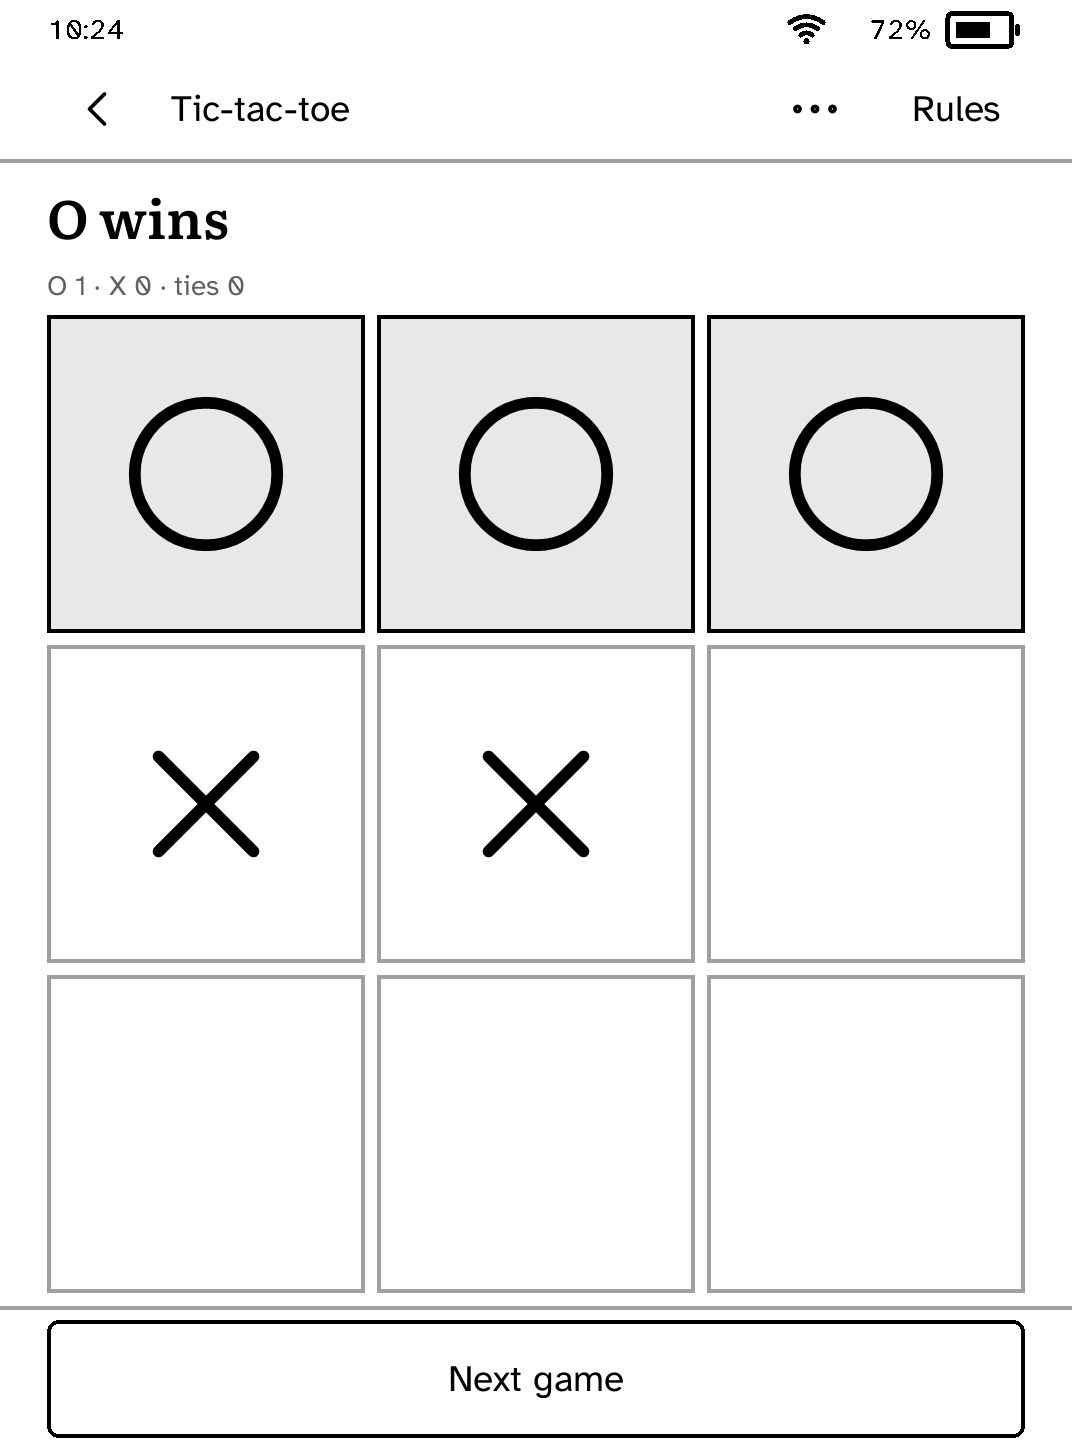
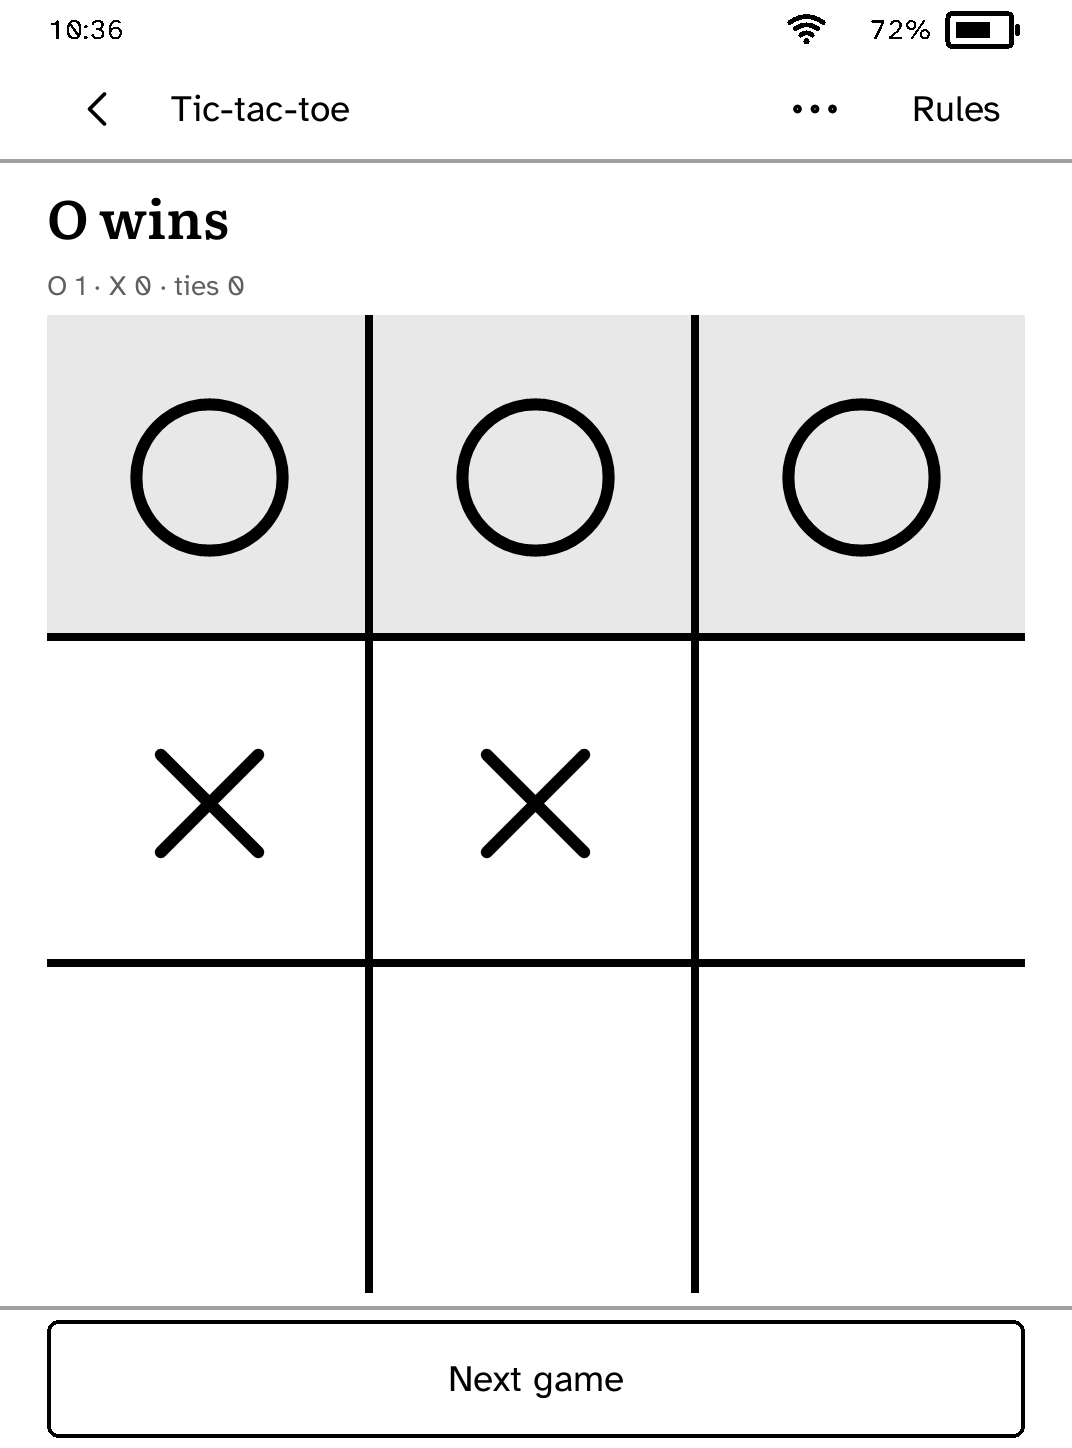
Draw a three by three board as the hash it is played on
A square grid of nine cells marked only with noughts and crosses was nine separate outlined boxes with gaps between them. Its squares now meet, and each draws the rule to its right and below where another square follows, so the board is the four heavy rules of a # with nothing round it. A winning line keeps its selection field.

The tic-tac-toe example's screenshots and site copy are retaken.

diff --git a/docs/index.html b/docs/index.html
@@ -733,7 +733,7 @@ footer nav { display: flex; gap: 22px; flex-wrap: wrap; }
         <p>Sync folders between your computer and your Kobo with Syncthing. Needs your computer.</p>
       </div>
       <div class="app">
-        <a class="shot" href="apps/tictactoe/"><picture><source type="image/webp" sizes="(max-width: 465px) calc(100vw - 36px), (max-width: 931px) 314px, 240px" srcset="media/site/app-thumbs/tictactoe-480w-0eb9d0b9161d.webp 480w, media/site/app-thumbs/tictactoe-800w-0eb9d0b9161d.webp 800w"><img src="media/site/apps/tictactoe.png" width="1072" height="1448" loading="lazy" alt="A completed game of tic-tac-toe on a Kobo"></picture></a>
+        <a class="shot" href="apps/tictactoe/"><picture><source type="image/webp" sizes="(max-width: 465px) calc(100vw - 36px), (max-width: 931px) 314px, 240px" srcset="media/site/app-thumbs/tictactoe-480w-9848e0046831.webp 480w, media/site/app-thumbs/tictactoe-800w-9848e0046831.webp 800w"><img src="media/site/apps/tictactoe.png" width="1072" height="1448" loading="lazy" alt="A completed game of tic-tac-toe on a Kobo"></picture></a>
         <h3><a href="apps/tictactoe/">Tic-tac-toe</a></h3>
         <p>Play tic-tac-toe together on one Kobo.</p>
       </div>

diff --git a/crates/kobo-ui/src/lib.rs b/crates/kobo-ui/src/lib.rs
@@ -1403,6 +1403,13 @@ pub enum CellStyle {
     Pit,
     /// A store at one end of a sowing game's board, as tall as both rows.
     Store,
+    /// A square of a noughts and crosses board: it draws the rule on its
+    /// right and below it where another square follows, so the board is the
+    /// four rules of a # and nothing round it.
+    Hash {
+        right: bool,
+        bottom: bool,
+    },
     /// A square of a joined board ruled in grey, a reversi board's: it
     /// draws its top and left rules and the board draws the frame.
     Ruled,
@@ -8048,6 +8055,16 @@ fn layout_node(
                 && cells
                     .iter()
                     .any(|cell| matches!(cell.glyph, Some(Glyph::BlackDisc | Glyph::WhiteDisc)));
+            // Noughts and crosses is drawn as the # it is played on: three by
+            // three squares that meet, with only the four rules between them.
+            let hash_board = *square
+                && requested == 3
+                && cells.len() == 9
+                && cells.iter().all(|cell| {
+                    cell.corner.is_none()
+                        && cell.tone == CellTone::Plain
+                        && matches!(cell.glyph, None | Some(Glyph::Circle | Glyph::Close))
+                });
             let chess_board = *square
                 && requested == 8
                 && cells.len() == 64
@@ -8085,6 +8102,7 @@ fn layout_node(
             let (mut x, mut width, gutter) = if backgammon_board {
                 (0, metrics.width, 0)
             } else if chess_board
+                || hash_board
                 || draughts_squares
                 || reversi_board
                 || (*square && cells.iter().any(|cell| cell.corner.is_some()))
@@ -8214,6 +8232,11 @@ fn layout_node(
                     CellStyle::Plain
                 } else if reversi_board {
                     CellStyle::Ruled
+                } else if hash_board {
+                    CellStyle::Hash {
+                        right: column < 2,
+                        bottom: row < 2,
+                    }
                 } else if (draughts_board || chess_board) && (row + column) % 2 == 1 {
                     CellStyle::BoardDark
                 } else if draughts_board || chess_board {
@@ -15856,6 +15879,36 @@ fn paint_layout(
                 tone::MUTED,
                 clip,
             ),
+            LayoutKind::Cell(_, CellStyle::Hash { right, bottom }, selected) => {
+                if selected {
+                    fill_clipped(surface, node.rect, palette.selection_field(), clip);
+                }
+                let rule = metrics.rule_thickness() * 2;
+                if right {
+                    fill_clipped(
+                        surface,
+                        Rect {
+                            x: node.rect.x + node.rect.width - rule,
+                            width: rule,
+                            ..node.rect
+                        },
+                        tone::INK,
+                        clip,
+                    );
+                }
+                if bottom {
+                    fill_clipped(
+                        surface,
+                        Rect {
+                            y: node.rect.y + node.rect.height - rule,
+                            height: rule,
+                            ..node.rect
+                        },
+                        tone::INK,
+                        clip,
+                    );
+                }
+            }
             LayoutKind::RuledBoard => {
                 stroke_clipped(
                     surface,

diff --git a/crates/kobo-ui/src/tile_tests.rs b/crates/kobo-ui/src/tile_tests.rs
@@ -434,3 +434,40 @@ fn a_reversi_board_is_one_ruled_grid_and_a_legal_square_is_a_grey_dot() {
         "a legal square is {dot}, not grey"
     );
 }
+
+#[test]
+fn noughts_and_crosses_is_drawn_as_a_hash_with_no_box_round_it() {
+    let cells = (0..9_u32)
+        .map(|index| {
+            let cell = Cell::new(ActionId(400 + index), "");
+            match index {
+                0 => cell.with_glyph(Glyph::Circle),
+                4 => cell.with_glyph(Glyph::Close),
+                _ => cell,
+            }
+        })
+        .collect();
+    let screen = Screen::new(
+        1,
+        vec![Node::Grid {
+            id: NodeId(1),
+            columns: 3,
+            square: true,
+            cells,
+        }],
+    );
+    let metrics = CLARA_BW_METRICS;
+    let chrome = Chrome::measuring(true);
+    let layout = screen.layout_with(&metrics, &chrome);
+    let first = layout.rect_of_action(ActionId(400)).unwrap();
+    let second = layout.rect_of_action(ActionId(401)).unwrap();
+    assert_eq!(second.x, first.x + first.width, "the squares do not meet");
+    let mut surface = Surface::new(metrics.width as usize, metrics.height as usize);
+    render_with(&screen, &metrics, &chrome, &mut surface, None);
+    let pixel = |x: i32, y: i32| surface.pixels[y as usize * surface.width + x as usize];
+    // A rule between the first two squares, and none along the outer edge.
+    let middle = first.y + first.height / 2;
+    assert_eq!(pixel(first.x + first.width - 1, middle), tone::INK);
+    assert_eq!(pixel(first.x, first.y + first.height / 4), tone::PAPER);
+    assert_eq!(pixel(first.x + first.width / 4, first.y), tone::PAPER);
+}
